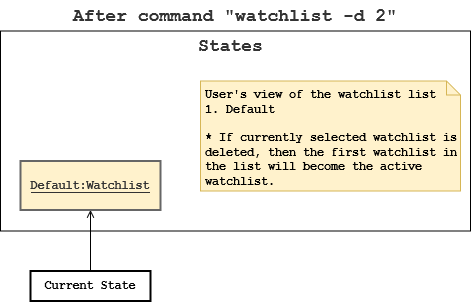
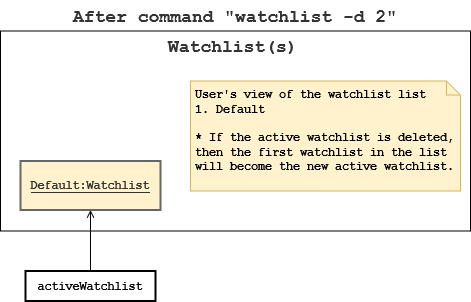
Update DG diagrams

diff --git a/docs/DeveloperGuide.md b/docs/DeveloperGuide.md
@@ -605,9 +605,9 @@ Given below is an example usage scenario showing how the `WatchlistCommand` beha
 
 **Step 6:** `WatchlistCommand` is terminated.
 
-![WatchlistCommand After Step 6 State](images/WatchlistCommand-After-Step-6-State.png)
+![WatchlistCommand After Create State](images/WatchlistCommand-After-Create-State.png)
 
-*Figure 20: WatchlistCommand After Step 6 State*
+*Figure 20: WatchlistCommand After Create State*
 
 <br/>
 
@@ -622,7 +622,7 @@ All the other options in the watchlist command also follows a similar execution 
 
 <br/>
 
-**Step 8:** User decides to execute `watchlist -d 2` to delete the second watchlist (“NewAnime”) in the list.
+**Step 8:** The user now decides that the "NewAnime" watchlist is no longer needed and decides to execute `watchlist -d 2` to delete it.
 
 ![WatchlistCommand After Delete State](images/WatchlistCommand-After-Delete-State.png)
 
